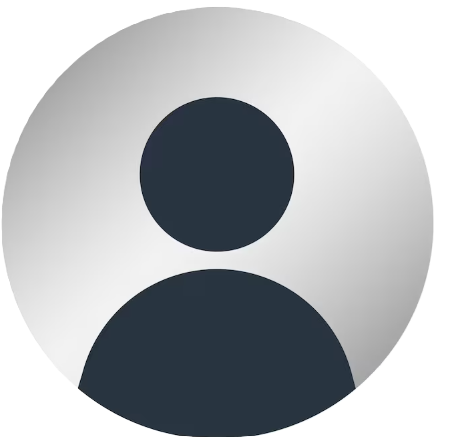
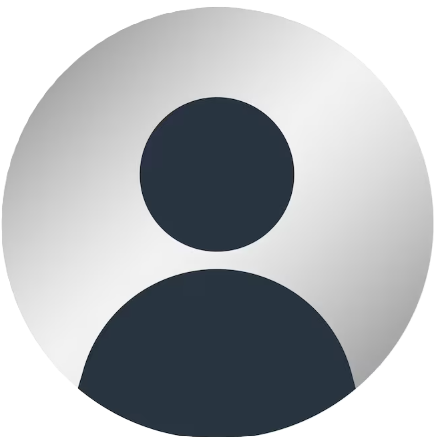
doble click arreglado en el inicio

diff --git a/frontend/src/app/features/inicio/components/inicio.ts b/frontend/src/app/features/inicio/components/inicio.ts
@@ -1,4 +1,4 @@
-import { Component, OnInit, HostListener, ElementRef, ViewChild, ChangeDetectorRef, Inject, PLATFORM_ID, OnDestroy } from '@angular/core';
+import { Component, OnInit, HostListener, ElementRef, ViewChild, ChangeDetectorRef, NgZone, Inject, PLATFORM_ID, OnDestroy } from '@angular/core';
 import Swal from 'sweetalert2';
 import { CommonModule } from '@angular/common';
 import { Router, RouterModule } from '@angular/router';
@@ -88,7 +88,9 @@ export class Inicio implements OnInit {
     private authService: AuthService,
     private publicacionesService: PublicacionesService,
     private announcementsService: AnnouncementsService,
-    private ticketsService: TicketsService
+    private ticketsService: TicketsService,
+    private cdr: ChangeDetectorRef,
+    private ngZone: NgZone
   ) {}
 
   getRandomPlaceholder(): string {
@@ -255,7 +257,10 @@ export class Inicio implements OnInit {
       this.imagenSeleccionada = file;
       const reader = new FileReader();
       reader.onload = (e: any) => {
-        this.imagenPreview = e.target.result;
+        this.ngZone.run(() => {
+          this.imagenPreview = e.target.result;
+          this.cdr.detectChanges();
+        });
       };
       reader.readAsDataURL(file);
     }
@@ -299,10 +304,12 @@ export class Inicio implements OnInit {
           this.nuevaPublicacion = '';
           this.currentPlaceholder = this.getRandomPlaceholder();
           this.eliminarImagen();
+          this.cdr.detectChanges();
 
           // Remove animation class after animation ends
           setTimeout(() => {
             nuevaPublicacion.justPublished = false;
+            this.cdr.detectChanges();
           }, 800);
         },
         error: (err) => {
@@ -374,9 +381,11 @@ export class Inicio implements OnInit {
             justAdded: true
           };
           publicacion.comentarios.push(nuevoComentario);
+          this.cdr.detectChanges();
 
           setTimeout(() => {
             nuevoComentario.justAdded = false;
+            this.cdr.detectChanges();
           }, 600);
         },
         error: (err) => {
